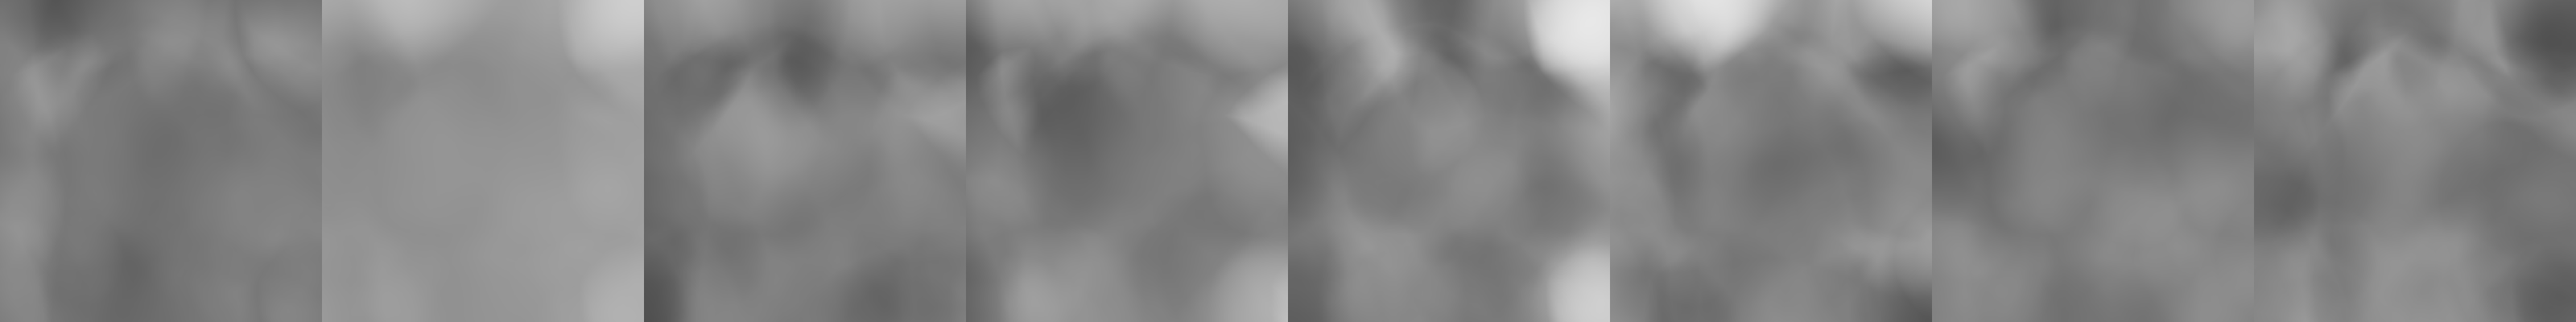
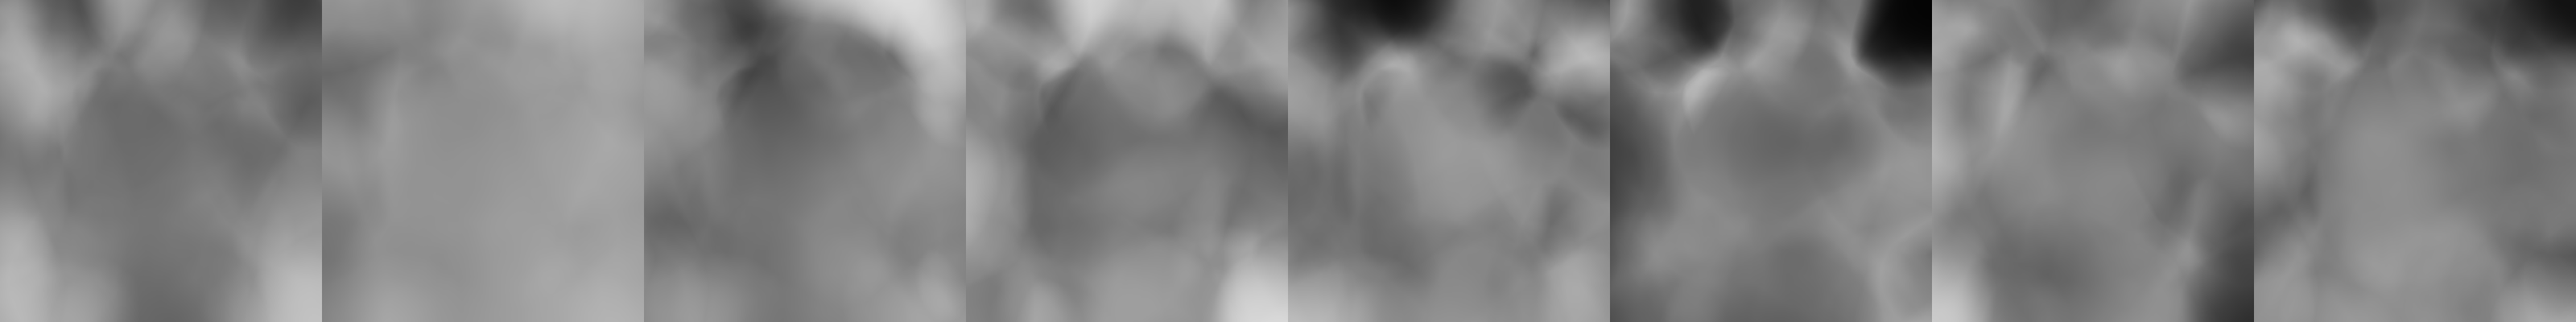
Add gif files for input sequences and additional results.

diff --git a/mpi/tiger/400/config.js b/mpi/tiger/400/config.js
@@ -6,22 +6,22 @@
   const layers = 12;
   const sublayers = 6;
 
-  const planes = [[1.3333333730697632,1.3939604456995573,1.4545875183293517,1.515214590959146,1.5758416635889403,1.6364687362187345,1.6970958088485288,1.757722881478323,1.8183499541081174,1.8789770267379116,1.9396040993677057,2.0002311719975,2.0608582446272945,2.121485317257089,2.182112389886883,2.242739462516677,2.3033665351464716,2.3639936077762655,2.42462068040606,2.4852477530358543,2.5458748256656483,2.606501898295443,2.667128970925237,2.7277560435550314,2.788383116184826,2.8490101888146198,2.909637261444414,2.9702643340742085,3.0308914067040025,3.0915184793337973,3.1521455519635913,3.2127726245933856,3.27339969722318,3.334026769852974,3.3946538424827684,3.4552809151125627,3.5159079877423567,3.576535060372151,3.6371621330019455,3.69778920563174,3.758416278261534,3.819043350891328,3.8796704235211226,3.940297496150917,4.000924568780711,4.061551641410505,4.1221787140403,4.1828057866700945,4.2434328592998884,4.304059931929682,4.364687004559476,4.42531407718927,4.485941149819065,4.54656822244886,4.607195295078654,4.667822367708448,4.728449440338242,4.789076512968037,4.849703585597831,4.910330658227625,4.970957730857419,5.031584803487213,5.092211876117008,5.152838948746802,5.213466021376597,5.274093094006391,5.334720166636185,5.39534723926598,5.4559743118957735,5.5166013845255675,5.577228457155362,5.637855529785156]];
+  const planes = [[1.479474425315857,1.54399638444605,1.6085183435762431,1.6730403027064364,1.7375622618366295,1.8020842209668226,1.866606180097016,1.931128139227209,1.9956500983574021,2.0601720574875952,2.1246940166177883,2.189215975747982,2.253737934878175,2.318259894008368,2.382781853138561,2.4473038122687543,2.5118257713989474,2.5763477305291405,2.6408696896593336,2.7053916487895266,2.7699136079197197,2.834435567049913,2.8989575261801064,2.9634794853102995,3.0280014444404926,3.0925234035706857,3.1570453627008788,3.2215673218310723,3.2860892809612654,3.3506112400914585,3.4151331992216516,3.4796551583518447,3.544177117482038,3.608699076612231,3.673221035742424,3.737742994872617,3.80226495400281,3.8667869131330037,3.931308872263197,3.99583083139339,4.0603527905235826,4.124874749653776,4.189396708783969,4.253918667914162,4.318440627044356,4.382962586174549,4.447484545304742,4.512006504434935,4.576528463565128,4.641050422695321,4.705572381825514,4.7700943409557075,4.834616300085901,4.899138259216095,4.963660218346288,5.028182177476481,5.092704136606674,5.157226095736867,5.22174805486706,5.286270013997253,5.350791973127446,5.415313932257639,5.4798358913878324,5.5443578505180255,5.608879809648219,5.673401768778412,5.737923727908605,5.802445687038798,5.866967646168991,5.931489605299184,5.996011564429377,6.06053352355957]];
 
-  const f = 246.69952514906822 * scale;
+  const f = 247.29455233518567 * scale;
   var names = [""];
   var nMpis = names.length;
 
-  const py = 149.50172040904692 * scale;
-  const px = 209.05332851260505 * scale;
+  const py = 148.80658602310757 * scale;
+  const px = 208.6412856569919 * scale;
   const invz = false;
 
   const offset = 80;
   const maxcol = 7;
   const version = "learned_basis8";
-  const extrinsics = [[0.9997125864028931,0.011174699291586876,0.021207239478826523,0.0,-0.01122159045189619,0.9999347925186157,0.002093249000608921,0.0,-0.02118246629834175,-0.002330626593902707,0.9997729063034058,0.0,-0.20847119390964508,0.08096588402986526,0.018859874457120895,1.0]];
+  const extrinsics = [[0.999708354473114,0.011272534728050232,0.02136254496872425,0.0,-0.011324821040034294,0.9999331831932068,0.0023281434550881386,0.0,-0.021334871649742126,-0.0025693909265100956,0.9997690916061401,0.0,-0.21488991379737854,0.08434992283582687,0.019001945853233337,1.0]];
 
-  const rads = [[0.809344345331192,0.5152335345745087,0.15201963633298876]];
-  const focal  = 4.516409719444575;
+  const rads = [[0.8345856189727783,0.5313348114490509,0.15826359540224075]];
+  const focal  = 4.448717656216175;
 
   

diff --git a/mpi/sofa/1024/config.js b/mpi/sofa/1024/config.js
@@ -1,0 +1,27 @@
+
+  const w = 1024;
+  const h = 768;
+  const scale = 1;
+  const nSubPlanes = 1;
+  const layers = 16;
+  const sublayers = 8;
+
+  const planes = [[2.8329291343688965,2.9859993176197444,3.139069500870592,3.2921396841214396,3.4452098673722875,3.5982800506231354,3.751350233873983,3.9044204171248307,4.0574906003756785,4.210560783626526,4.363630966877374,4.516701150128222,4.669771333379069,4.822841516629918,4.975911699880765,5.128981883131613,5.282052066382461,5.4351222496333085,5.588192432884156,5.741262616135003,5.894332799385852,6.047402982636699,6.200473165887547,6.353543349138395,6.506613532389243,6.6596837156400905,6.812753898890938,6.965824082141786,7.118894265392633,7.271964448643481,7.425034631894329,7.578104815145177,7.731174998396025,7.884245181646873,8.03731536489772,8.19038554814857,8.343455731399416,8.496525914650263,8.64959609790111,8.802666281151959,8.955736464402808,9.108806647653655,9.261876830904502,9.41494701415535,9.568017197406197,9.721087380657046,9.874157563907893,10.02722774715874,10.180297930409589,10.333368113660438,10.486438296911285,10.639508480162132,10.79257866341298,10.945648846663827,11.098719029914676,11.251789213165523,11.40485939641637,11.557929579667219,11.710999762918066,11.864069946168915,12.017140129419762,12.17021031267061,12.323280495921457,12.476350679172306,12.629420862423153,12.782491045674,12.935561228924849,13.088631412175696,13.241701595426544,13.394771778677391,13.54784196192824,13.700912145179087,13.853982328429936,14.007052511680783,14.16012269493163,14.313192878182479,14.466263061433326,14.619333244684174,14.772403427935021,14.92547361118587,15.078543794436717,15.231613977687564,15.384684160938413,15.53775434418926,15.690824527440109,15.843894710690956,15.996964893941804,16.15003507719265,16.3031052604435,16.45617544369435,16.609245626945196,16.762315810196043,16.91538599344689,17.068456176697737,17.221526359948584,17.374596543199434,17.52766672645028,17.680736909701128,17.83380709295198,17.986877276202826,18.139947459453673,18.29301764270452,18.446087825955367,18.599158009206214,18.752228192457064,18.90529837570791,19.058368558958758,19.211438742209605,19.364508925460456,19.517579108711303,19.67064929196215,19.823719475212997,19.976789658463844,20.129859841714694,20.28293002496554,20.436000208216388,20.589070391467235,20.742140574718086,20.895210757968933,21.04828094121978,21.201351124470627,21.354421307721474,21.507491490972324,21.66056167422317,21.813631857474018,21.966702040724865,22.119772223975716,22.272842407226562]];
+
+  const f = 697.734376664728 * scale;
+  var names = [""];
+  var nMpis = names.length;
+
+  const py = 385.92769057889575 * scale;
+  const px = 549.0057502923618 * scale;
+  const invz = false;
+
+  const offset = 204;
+  const maxcol = 11;
+  const version = "learned_basis8";
+  const extrinsics = [[0.9991113543510437,0.022554993629455566,-0.035605382174253464,0.0,-0.022593753412365913,0.9997444748878479,-0.0006865183240734041,0.0,0.03558080643415451,0.0014903658302500844,0.9993656873703003,0.0,-0.07965635508298874,0.06798752397298813,-0.03620803728699684,1.0]];
+
+  const rads = [[0.8218355178833008,0.5806141495704651,0.21168085932731628]];
+  const focal  = 4.678188002426479;
+
+  

diff --git a/mpi/sofa/400/config.js b/mpi/sofa/400/config.js
@@ -1,0 +1,27 @@
+
+  const w = 400;
+  const h = 300;
+  const scale = 1;
+  const nSubPlanes = 1;
+  const layers = 12;
+  const sublayers = 6;
+
+  const planes = [[2.8329291343688965,3.106730729761258,3.3805323251536192,3.654333920545981,3.9281355159383424,4.201937111330704,4.475738706723066,4.749540302115427,5.023341897507788,5.297143492900149,5.570945088292511,5.844746683684873,6.118548279077235,6.392349874469596,6.6661514698619575,6.939953065254318,7.21375466064668,7.487556256039042,7.761357851431403,8.035159446823766,8.308961042216126,8.582762637608488,8.85656423300085,9.13036582839321,9.404167423785573,9.677969019177933,9.951770614570295,10.225572209962657,10.499373805355019,10.77317540074738,11.04697699613974,11.320778591532102,11.594580186924464,11.868381782316826,12.142183377709188,12.415984973101548,12.68978656849391,12.963588163886271,13.237389759278633,13.511191354670995,13.784992950063355,14.058794545455717,14.332596140848079,14.60639773624044,14.880199331632802,15.154000927025164,15.427802522417524,15.701604117809886,15.975405713202248,16.24920730859461,16.52300890398697,16.796810499379333,17.070612094771693,17.344413690164053,17.618215285556417,17.89201688094878,18.16581847634114,18.4396200717335,18.713421667125864,18.987223262518224,19.261024857910584,19.534826453302948,19.808628048695308,20.08242964408767,20.35623123948003,20.63003283487239,20.903834430264755,21.177636025657115,21.45143762104948,21.72523921644184,21.9990408118342,22.272842407226562]];
+
+  const f = 272.5524908846594 * scale;
+  var names = [""];
+  var nMpis = names.length;
+
+  const py = 150.44831663238116 * scale;
+  const px = 214.15068370795385 * scale;
+  const invz = false;
+
+  const offset = 80;
+  const maxcol = 7;
+  const version = "learned_basis8";
+  const extrinsics = [[0.9991113543510437,0.022554993629455566,-0.035605382174253464,0.0,-0.022593753412365913,0.9997444748878479,-0.0006865183240734041,0.0,0.03558080643415451,0.0014903658302500844,0.9993656873703003,0.0,-0.07965635508298874,0.06798752397298813,-0.03620803728699684,1.0]];
+
+  const rads = [[0.8218355178833008,0.5806141495704651,0.21168085932731628]];
+  const focal  = 4.678188002426479;
+
+  

diff --git a/mpi/settimio/400/config.js b/mpi/settimio/400/config.js
@@ -1,0 +1,27 @@
+
+  const w = 400;
+  const h = 300;
+  const scale = 1;
+  const nSubPlanes = 1;
+  const layers = 12;
+  const sublayers = 6;
+
+  const planes = [[1.4178320169448853,1.542672744939025,1.6675134729331649,1.7923542009273046,1.9171949289214443,2.042035656915584,2.166876384909724,2.2917171129038634,2.4165578408980033,2.541398568892143,2.6662392968862827,2.7910800248804226,2.9159207528745625,3.040761480868702,3.165602208862842,3.290442936856982,3.4152836648511213,3.5401243928452613,3.664965120839401,3.7898058488335407,3.9146465768276806,4.0394873048218205,4.16432803281596,4.2891687608100995,4.41400948880424,4.538850216798379,4.663690944792519,4.788531672786659,4.913372400780799,5.038213128774938,5.1630538567690785,5.287894584763218,5.412735312757357,5.537576040751498,5.662416768745637,5.787257496739777,5.912098224733917,6.036938952728057,6.161779680722196,6.286620408716336,6.411461136710476,6.536301864704615,6.661142592698756,6.785983320692895,6.910824048687035,7.035664776681175,7.1605055046753145,7.285346232669454,7.410186960663594,7.535027688657734,7.659868416651873,7.784709144646014,7.909549872640153,8.034390600634293,8.159231328628433,8.284072056622573,8.408912784616712,8.533753512610852,8.658594240604991,8.783434968599131,8.908275696593272,9.033116424587412,9.15795715258155,9.282797880575691,9.40763860856983,9.53247933656397,9.65732006455811,9.782160792552249,9.90700152054639,10.03184224854053,10.156682976534668,10.281523704528809]];
+
+  const f = 301.50555335277613 * scale;
+  var names = [""];
+  var nMpis = names.length;
+
+  const py = 147.3630630720363 * scale;
+  const px = 207.8961300156683 * scale;
+  const invz = false;
+
+  const offset = 200;
+  const maxcol = 5;
+  const version = "learned_basis8";
+  const extrinsics = [[0.9999971985816956,3.0021048587514088e-05,0.002334464807063341,0.0,-2.21011541725602e-05,0.9999942779541016,-0.0033924977760761976,0.0,-0.002334553049877286,0.0033924367744475603,0.9999914765357971,0.0,-0.0371258482336998,-0.011878065764904022,0.022070689126849174,1.0]];
+
+  const rads = [[0.4718678593635559,0.4461258232593536,0.15866070985794067]];
+  const focal  = 4.502261369679928;
+
+  

diff --git a/mpi/steak/400/config.js b/mpi/steak/400/config.js
@@ -16,8 +16,8 @@
   const px = 205.09594839305038 * scale;
   const invz = false;
 
-  const offset = 200;
-  const maxcol = 20;
+  const offset = 80;
+  const maxcol = 7;
   const version = "learned_basis8";
   const extrinsics = [[0.9994385838508606,-0.014488548040390015,0.030208738520741463,0.0,0.015049059875309467,0.9997171759605408,-0.018410589545965195,0.0,-0.029933452606201172,0.018854867666959763,0.9993739724159241,0.0,-0.08438054472208023,0.08149269968271255,0.07942209392786026,1.0]];
 

diff --git a/mpi/wall/400/config.js b/mpi/wall/400/config.js
@@ -16,8 +16,8 @@
   const px = 209.2260076955695 * scale;
   const invz = false;
 
-  const offset = 200;
-  const maxcol = 20;
+  const offset = 80;
+  const maxcol = 7;
   const version = "learned_basis8";
   const extrinsics = [[0.9998063445091248,0.01862741820514202,-0.006348296534270048,0.0,-0.018228374421596527,0.9981507658958435,0.05798857659101486,0.0,0.0074167330749332905,-0.057861629873514175,0.9982970356941223,0.0,0.14549818634986877,0.025471266359090805,-0.12796956300735474,1.0]];
 
